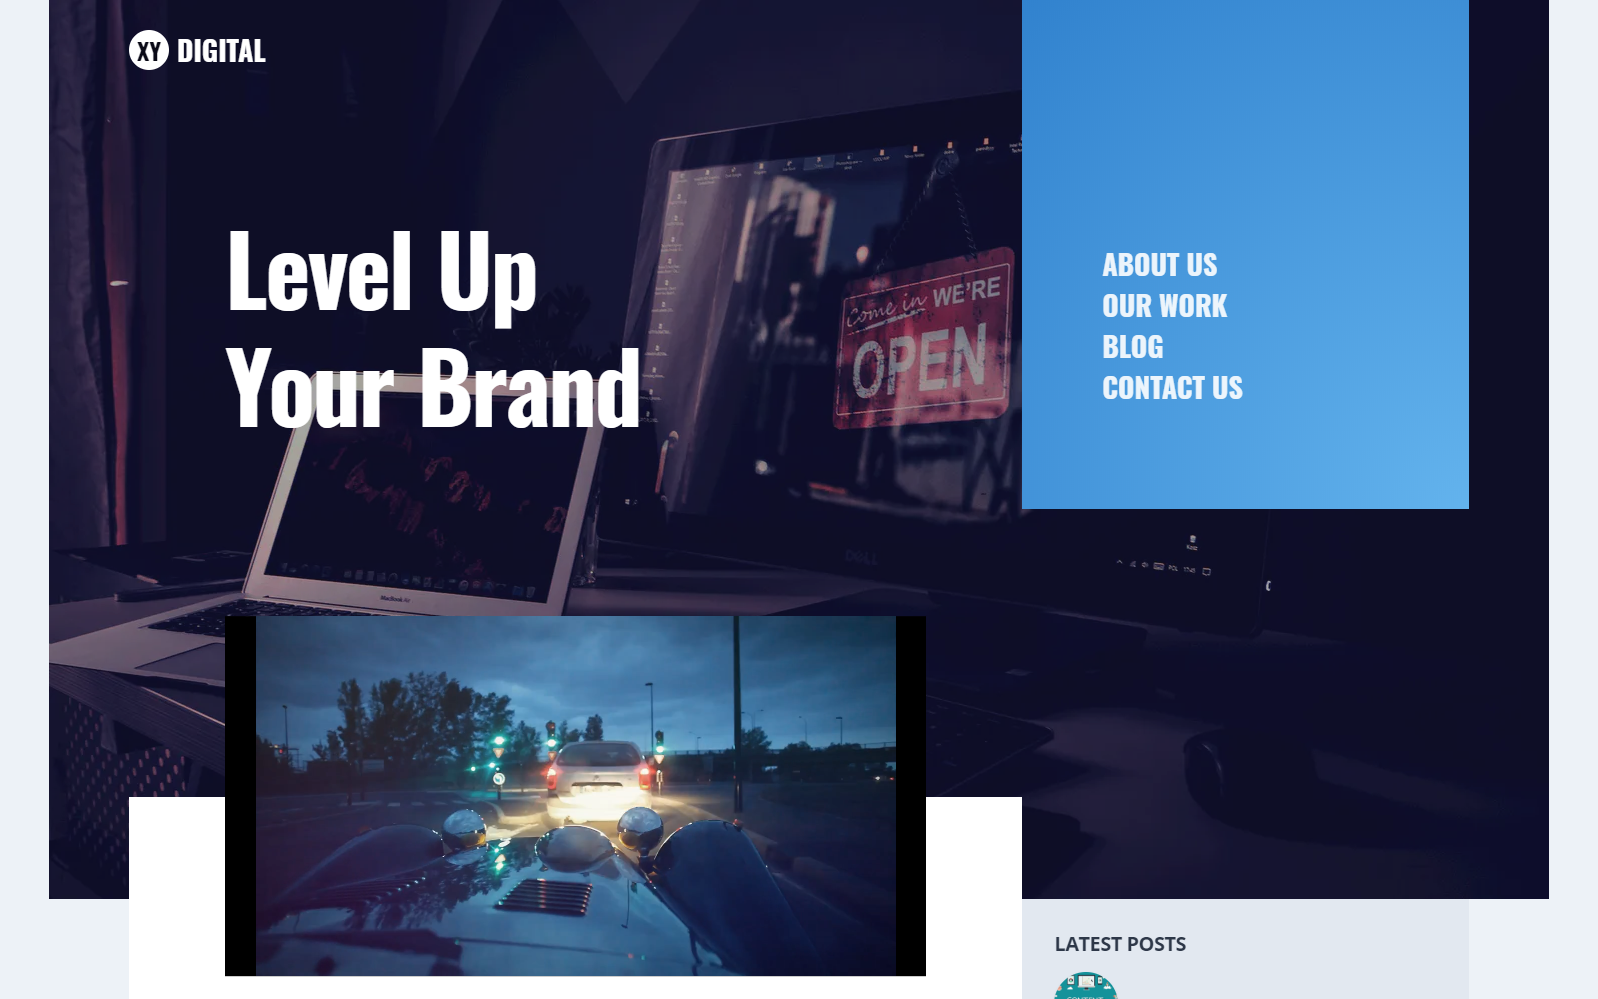
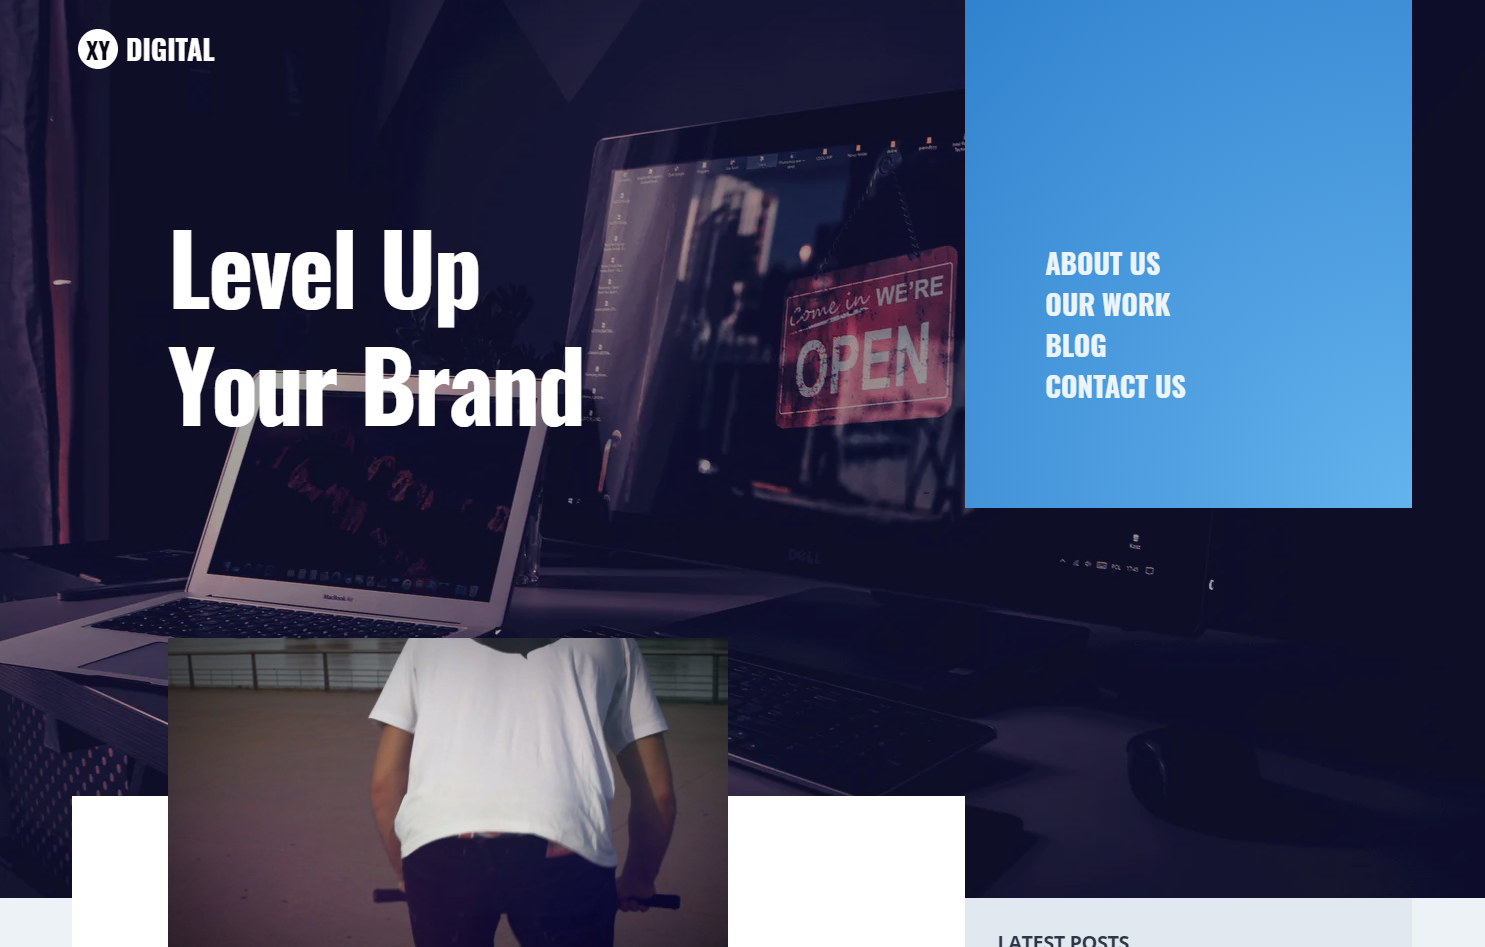
Styling and content update

diff --git a/src/components/home/projects.js b/src/components/home/projects.js
@@ -111,7 +111,7 @@ const TechList = styled.ul`
     }
 
     ${media.bp800`
-        margin-bottom: 0;
+        margin-bottom: -1px;
     `}
 `;
 const LinksContainer = styled.div`
@@ -121,19 +121,14 @@ const LinksContainer = styled.div`
     margin-left: -1rem;
 
     && svg {
-        width: 24px;
-        height: 24px;
+        width: 2.2rem;
+        height: 2.2rem;
     }
 
     ${media.bp800`
         && a:first-of-type {
             margin-right: 1rem;
         }
-
-        && svg {
-        width: 22px;
-        height: 22px;
-    }
     `}
 `;
 const StyledImg = styled(Img)`
@@ -151,7 +146,7 @@ const StyledImg = styled(Img)`
     `}
 `;
 const containerStyles = css`
-    width: 60rem;
+    width: 54rem;
     max-width: calc(100vw - 2 * var(--side-padding));
     max-height: ${props => props.maxHeight};
     box-shadow: var(--box-shadow-primary);
@@ -165,6 +160,9 @@ const StyledImgContainer = styled.div`
     border-radius: var(--border-radius);
     max-width: 100%;
 
+    ${media.bp2400`
+        width: 60rem;
+    `}
     ${media.bp800`
         width: calc(100vw - 2 * var(--side-padding));
         margin-bottom: 1.5rem;

diff --git a/src/styles/global-styles/theme.js b/src/styles/global-styles/theme.js
@@ -107,7 +107,7 @@ const theme = css`
             --color-scrollbar-active: var(--color-navy-5);
             --color-field-background: var(--color-navy-5);
             --color-field-background-hover: var(--color-navy-4);
-            --color-field-background-active: var(--color-navy-5);
+            --color-field-background-active: var(--color-navy-6);
             --color-field-border: var(--color-navy-4);
             --color-field-border-hover: var(--color-navy-3);
             --color-box-shadow: rgba(7, 18, 34, 0.25);

diff --git a/src/styles/button-styles.js b/src/styles/button-styles.js
@@ -5,9 +5,10 @@ import { mixins } from '@styles';
 const commonStyles = css`
     ${mixins.clickable}
     border-radius: var(--border-radius);
-    font-size: var(--font-size-xs);
-    font-family: var(--fonts-mono);
-    font-weight: 600;
+    font-size: var(--font-size-sm);
+    font-family: var(--fonts-primary);
+    letter-spacing: 0.06em;
+    font-weight: 500;
     line-height: 1;
     text-decoration: none;
     cursor: pointer;

diff --git a/src/components/footer.js b/src/components/footer.js
@@ -38,16 +38,9 @@ const FooterBottomContainer = styled.ul`
     a {
         padding: 1.6rem;
         svg {
-            width: 22px;
-            height: 22px;
+            width: 2rem;
+            height: 2rem;
         }
-
-        ${media.bp800`
-            svg {
-                width: 20px;
-                height: 20px;
-            }
-        `}
     }
 `;
 

diff --git a/src/templates/post.js b/src/templates/post.js
@@ -84,13 +84,12 @@ const BreadCrumb = styled(Link)`
     svg {
         display: block;
         margin-right: 1rem;
-        height: 20px;
-        width: 20px;
+        height: 2rem;
+        width: 2rem;
     }
 `;
 const Title = styled.h1`
     font-size: var(--font-size-h1);
-    line-height: 1.1;
     margin: 0;
     line-height: 1.2;
 `;

diff --git a/src/components/social.js b/src/components/social.js
@@ -40,16 +40,9 @@ const List = styled.ul`
 
     li {
         svg {
-            width: 20px;
-            height: 20px;
+            width: 2rem;
+            height: 2rem;
         }
-
-        ${media.bp1040`
-            svg {
-                width: 18px;
-                height: 18px;
-            }
-        `}
     }
 `;
 

diff --git a/src/components/header.js b/src/components/header.js
@@ -138,7 +138,7 @@ const LinksList = styled.ul`
 `;
 const StyledLink = styled(Link)`
     font-family: var(--fonts-primary);
-    font-size: var(--font-size-sm);
+    font-size: var(--font-size-xs);
 
     padding: 1.2rem 1rem;
     font-weight: 600;

diff --git a/src/styles/mixins.js b/src/styles/mixins.js
@@ -215,7 +215,6 @@ const mixins = {
         &:focus,
         &:active {
             background-color: var(--color-field-background-active);
-            border: 1.5px solid var(--color-field-border-active);
         }
 
         ${props =>

diff --git a/src/components/menu.js b/src/components/menu.js
@@ -92,8 +92,8 @@ const SocialsLink = styled(OutboundLink)`
     padding: 2rem;
 
     svg {
-        width: 22px;
-        height: 22px;
+        width: 2rem;
+        height: 2rem;
         color: var(--color-white-1);
     }
 

diff --git a/src/components/anchor.js b/src/components/anchor.js
@@ -2,7 +2,7 @@ import styled from 'styled-components';
 
 const Anchor = styled.div`
     position: absolute;
-    margin-top: -100px;
+    margin-top: -125px;
 `;
 
 export default Anchor;

diff --git a/src/content/projects/xy-digital/index.md b/src/content/projects/xy-digital/index.md
@@ -1,5 +1,5 @@
 ---
-sort: 2
+sort: 1
 overline: 'Modern SSG Web-App'
 title: 'XY Digital'
 images:
@@ -11,18 +11,13 @@ tech:
     - React
     - Next.js
     - Tailwind CSS
-    - Framer Motion
     - GraphQL
-    - Prismic
+    - Prismic.io
+    - Framer Motion
 ---
 
-A lightning fast and stylish modern website that would be perfect for a digital agency to showcase their work and experience.
-
-<!-- fast, stylish -->
+A lightning fast and stylish modern website that would be perfect for any digital agency to showcase their work and experience.
 
 Since it's built using [Next.js](https://nextjs.org/), an optimized version of each page is generated server side and with most data already queried from [Prismic](https://prismic.io) for before any user request.
 
 I enjoyed using the popular CSS framework, [Tailwind CSS](https://tailwindcss.com/), for most of the styling along with [Framer Motion](https://www.framer.com/motion/) for the more advanced animations.
-
-<!--
-Each page is loaded instantly since most data is queried for and all HTML & CSS generated server side before any user request. . I became comfortable using GraphQL in this project which I used to query the Prismic.io headless CMS for most of the site content. -->

diff --git a/src/content/projects/dev-link/index.md b/src/content/projects/dev-link/index.md
@@ -1,16 +1,10 @@
 ---
-sort: 1
+sort: 2
 overline: 'Full-Stack Web-App'
 title: 'Dev Link'
 images:
     - image: './image-1.png'
-      alt: 'Dev-link sign-up form'
-    - image: './image-2.png'
-      alt: 'Dev-link developers page'
-    - image: './image-3.png'
-      alt: 'Dev-link profile page'
-    - image: './image-4.png'
-      alt: 'Dev-link portfolio edit modal'
+      alt: 'Dev-link home page'
 github: 'https://github.com/bradypp/dev-link'
 external: 'https://d-link.herokuapp.com'
 tech:
